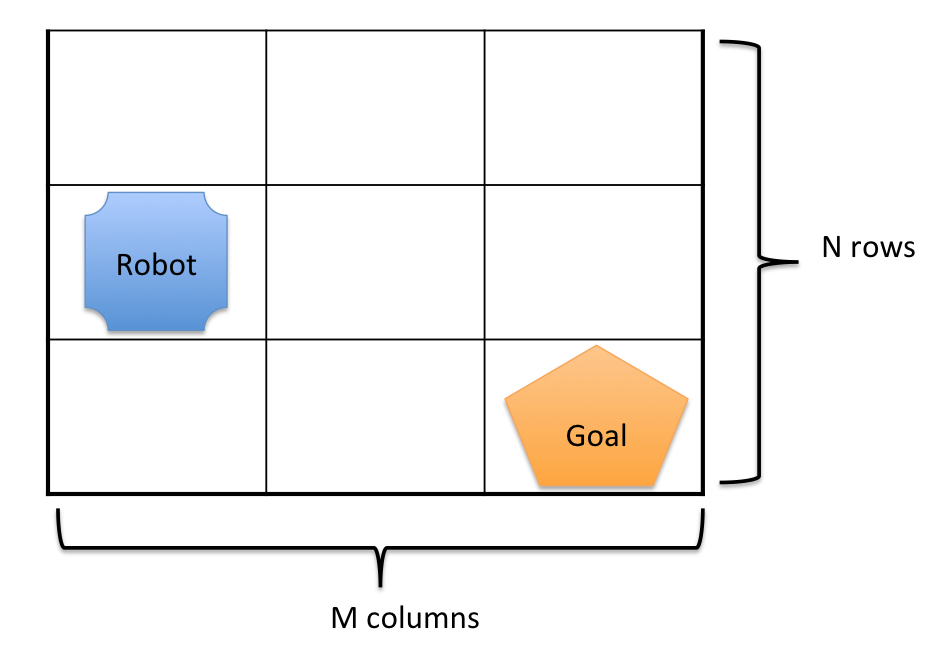
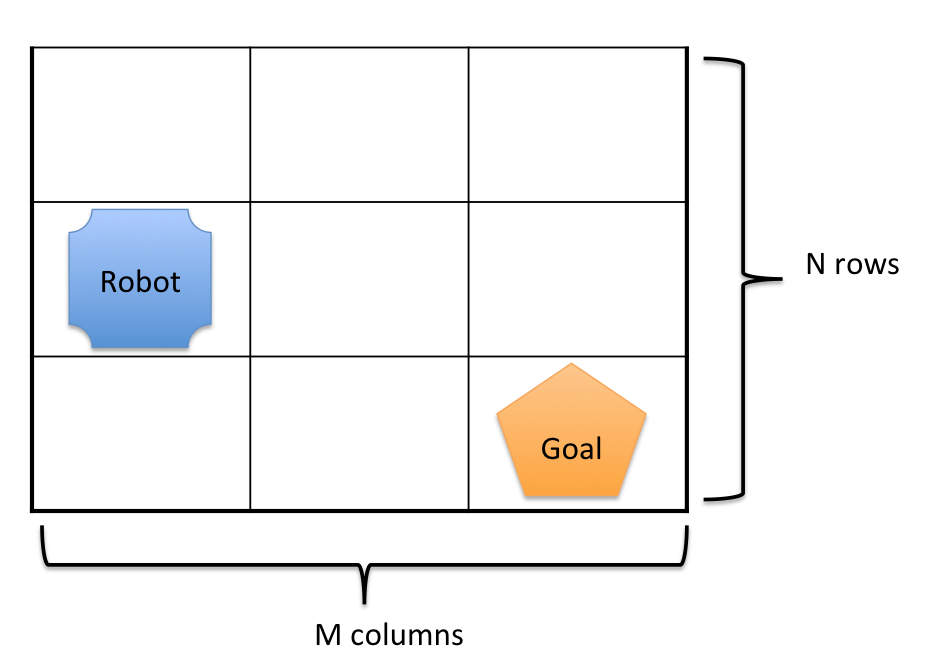
BIG RUN THROUGH FINISHED

Changed region(s): [[0.0303, 0.0306, 0.9989, 0.9786]]

diff --git a/AISearchChapter.tex b/AISearchChapter.tex
@@ -8,9 +8,9 @@ Based on our ability to rapidly simulate water particles and the deterministic n
 
 	\subsection{Terminology}
 
-In order to describe how A.I. search applies to the draining problem in manufacturing, some terminology must be defined first. In order to aid our definitions, we will use a simple positional search problem as an example, shown in figure \ref{robotGrid}. Imagine a robot placed on a grid with $M$ columns and $N$ rows that is attempting to reach a goal position $G_{pos}$
+In order to describe how A.I. search applies to the draining problem in manufacturing, some terminology must be defined first. In order to aid our definitions, we will use a simple positional search problem as an example, shown below.
 
-\myfigure{width=0.5\linewidth}{robotGrid}{A small positional search problem.}
+\myfigure{width=0.7\linewidth}{robotGrid}{A small positional search problem; a robot on a $M$ by $N$ grid is attempting to reach a goal position $G_{pos}$}
 
 The ``state'' is defined as a set of information that minimally represents the current progress to the goal. For this positional search problem, the minimal state representation would be the position tuple of the robot $(R_x,R_y)$, where $R_x$ is the horizontal position of the robot and $R_y$ is the vertical position of the robot. Here these variables can take on positive integer values up to $M$ and $N$ respectively.
 
@@ -18,11 +18,11 @@ For every state, the agent under control has a number of actions available to ta
 
 When the agent under control takes an action, a new state is produced. The ``transition function'' is responsible for transforming a state action pair into a successor state. For example, if the robot above was in position $(M = 1, N = 2)$ and took the action $North$, the transition function would return the state $(M = 1, N = 3)$.
 
-This transition function is also responsible for performing validity checks against the environment. In our positional search example, the transition function would be responsible for making sure the robot does not move off the grid or into a square occupied by another agent or wall. If an invalid state action pair is given to the transition function, the transition function returns $null$ to designate this invalid combination.
+This transition function is also responsible for performing validity checks against the environment. In our positional search example, the transition function would be responsible for making sure the robot does not move off the grid or into a square occupied by another agent or wall. If an invalid state action pair is given to the transition function, the transition function commonly returns $null$ to designate this invalid combination.
 
-The ``successor function'' is a meta function that uses the transition function and available actions to the agent. It is responsible for generating a list of successor states from a given state. For the above problem, the successor function would return the list of adjacent squares the robot could move into and the actions that produce those states.
+The ``successor function'' is a meta-function that uses the transition function and available actions to the agent. It is responsible for generating a list of successor states reachable (in one action) from a given state. For the above problem, the successor function would return the list of adjacent squares the robot could move into and the actions that produce those states.
 
-A ``plan'' is simply a sequence of actions. Plans are usually maintained and updated by the successor function when exploring states. This is because while reaching the goal state determines that the search algorithm has succeeded, the sequence of actions to achieve a goal state is usually the objective of the solution.
+A ``plan'' is simply a sequence of actions. While reaching the goal state determines that the search algorithm has succeeded, the sequence of actions to achieve a goal state is usually the objective of the solution. Consequently, plans are usually maintained and updated by the successor function when exploring states.
 
 	\subsection{General Tree Search}
 
@@ -62,7 +62,7 @@ State spaces often grow exponentially large with the addition of new variables. 
 
 \section{Adaption of A.I. Search}
 
-This work focuses on a traditional application of A.I. search to a novel state space formulation for workpiece draining. Our unique state formulation reduces the size of the state space to make it manageable for general A.I algorithms.
+Our work focuses on a traditional application of A.I. search to a novel state space formulation for workpiece draining. Our unique state formulation reduces the size of the state space to make it manageable for general A.I algorithms.
 
 	\subsection{Traditional Formulation}
 
@@ -70,7 +70,7 @@ Rotating a water particle out of a workpiece can be considered a kinematic plann
 
 The actions available to the agent at any time are usually actions that change the acceleration on the agent. The transition function integrates this kinematic state and acceleration change in time with a pre-defined accuracy. Consequently, many transition function calls must be made to accurately integrate the path of the agent through time.
 
-The problem with this type of state formulation is that the state space commonly becomes far too expansive for general A.I. search algorithms. For example, in a reduced problem where there are only 1000 possible position, velocity, and acceleration vectors for the state, the state space is $1000^3$. This presents far too many possible states for search algorithms to enumerate through and may prevent the algorithm from terminating.
+The problem with this type of state formulation is that the state space commonly becomes far too expansive for general A.I. search algorithms. Consider a reduced problem where there are only 1000 possible position, velocity, and acceleration vectors. The size of the state space here is $1000^3$. This presents a large number of possible states for a search algorithm to enumerate through; the scale of this state space may prevent the algorithm from terminating.
 
 Because of this, general A.I. search is rarely used in kinematics problems -- other techniques that avoid combinatorial state space ``explosion'' are more common \cite{kuffner2000rrt} \cite{yakey2001randomized} \cite{nakamura1991nonholonomic}.
 
@@ -78,7 +78,7 @@ Because of this, general A.I. search is rarely used in kinematics problems -- ot
 
 Our state formulation overcomes these difficulties by drastically reducing the size of the state space. We instead offload most of the computational overhead to the successor function.
 
-The key insight here is to observe only the concave vertices of the workpiece; this insight was first used by Yasui et al. \cite{Yasui2011} in order to reduce the scope of the rotation axis discovery problem. Here it is applied to the state space formulation for the first time in order to maintain the effectiveness of general A.I. search.
+The key insight here is to observe only the concave vertices of the workpiece; this insight was first used by Yasui et al. \cite{Yasui2011} in order to reduce the scope of analzying the drainability of all possible rotation axes. Here it is applied to the state space formulation for the first time in order to maintain the effectiveness of general A.I. search.
 
 We define our state as the ``settled'' position of the particle, meaning the state is either:
 
@@ -109,9 +109,9 @@ $$
 
 	\subsection{Action Definition}
 
-The ``actions'' available to our agent will be represented by the possible set of rotations of the workpiece. In this problem we choose our frame of reference to be the workpiece geometry, so the rotation of the workpiece is observed as a rotation of the gravity vector through time.
+The ``actions'' available to our agent will be represented by the possible set of rotations of the workpiece over time. In this problem we choose our frame of reference to be the workpiece geometry, so the rotation of the workpiece is observed as a rotation of the gravity vector through time. This means that our action results in a change in the acceleration field.
 
-Thus, one specific action, or ``turn,'' is defined by a sweep in the gravity vector from $g_{start}$ to $g_{end}$ over a time $t_{turn}$. The interpolation function between $g_{start}$ and $g_{end}$ could take on any form, but we restrict ourselves to linear interpolation for simplicity.
+More formally, we define one action (or ``turn'') as a sweep in the gravity vector from $g_{start}$ to $g_{end}$ over a time $t_{turn}$. The interpolation function between $g_{start}$ and $g_{end}$ could take on any form, but we restrict ourselves to linear interpolation for simplicity.
 
 	\subsection{Transition Function}
 
@@ -125,15 +125,15 @@ $$
 
 	\subsection{Possible set of Turns}
 
-A turn is defined by three different variables: $g_{start}$, $g_{end}$, and $t_{turn}$. These variables could take on many values, which means many different turns could be produced. Consequently, a large number of actions are available to the agent at any given state, which leads to computational explosion (yet again).
+A turn is defined by three different variables: $g_{start}$, $g_{end}$, and $t_{turn}$. These variables could take on many values which means many different turns could be produced. Consequently, a large number of actions are available to the agent at any given state, which leads to computational explosion (yet again).
 
 
-In this work, we restrict the possible set of ``turns'' from a given concave vertex to reasonable limits. The main way this is accomplished is by reducing the set of gravity vectors available and fixing the duration of the turn. By doing so, we reduce the space of all possible actions to something manageable which still represents the full range of kinetic possibilities.
+In this work, we restrict the possible set of ``turns'' from a given concave vertex to reasonable limits. The main way this is accomplished is by reducing the set of gravity vectors available and fixing the duration of the turn. By doing so we reduce the space of all possible actions to something ``manageable'' which still represents the full range of kinetic possibilities. An action or state space is ``manageable'' if it does not jeopardize termination of the algorithm.
 
 
 To understand how the set of gravity vectors is reduced, some terminology must first be defined. A given concave vertex has two leading edges $E_1$ and $E_2$ defined by outward vectors $\vec{e}_1$ and $\vec{e}_2$.
 
-\myfigure{width=0.5\linewidth}{edgeDefinition}{A concave vertex $V_{cc}^1$ and its two corresponding outward edge vectors $\vec{e}_1$) and $\vec{e}_2$}
+\myfigure{width=0.5\linewidth}{edgeDefinition}{A concave vertex $V_{cc}^1$ and its two corresponding outward edge vectors $\vec{e}_1$ and $\vec{e}_2$}
 
 We start with a full sphere of possibilities to sample $g_{start}$ and $g_{end}$ from, as shown below:
 
@@ -150,7 +150,7 @@ Our second restriction is that $g_{end}$ must be a vector that produces motion o
 
 \myfigure{width=0.8\linewidth}{restriction3}{$g_{end}$ is reduced to vectors that produce motion while keeping the particle on the leading edge}
 
-This leaves two arcs of gravity vectors from which $g_{end}$ can be sampled.
+This leaves two arcs of gravity vectors from which $g_{end}$ can be selected.
 
 	\subsection{Ideal Successor Function}
 
@@ -164,13 +164,13 @@ To overcome this difficulty, we will instead sample from the continuous range of
 
 Sampling from this space produces a list of defined turns (or actions). Our successor function will then examine these actions in conjunction with an input concave vertex and produce the set of reachable concave vertices.
 
-Ideally this set of concave vertices would be identical to the set achieved by the full enumeration of the sampling space. This is not likely to happen in practice, but with careful design we can discover the majority of this set.
+Ideally this set of concave vertices produced by sampling would be identical to the set achieved by the full enumeration of the sampling space. This is not likely to happen in practice, but with careful design we can discover the majority of this set.
 
 	\subsection{Representative Coverage Between Limits}
 
 The way we produce the majority of this set is to obtain a representative coverage over the possible kinetic paths out of a concave vertex. This is done by choosing a sampling method that produces the most diverse set of kinetic paths.
 
-If the possible range of $g_{end}$ vectors is defined between the limits of $0$ and $1$, then an initial best-guess sampling function may be to use uniform sampling in the form of $x$. Because acceleration effects compound with time, this uniform sampling method produces many kinetic paths that are almost identical as can be seen below.
+If the possible range of $g_{end}$ vectors is defined between the limits of $0$ and $1$, then an initial best-guess sampling function may be to use uniform sampling in the form of $x$. Because acceleration effects compound with time however, this uniform sampling method produces many kinetic paths that are almost identical as can be seen below.
 
 \myfigure{width=0.5\linewidth}{samplingUniform}{The range of kinetic paths produced from 10 samples from each side at uniform sampling. Many of the sampled kinetic paths are nearly identical and thus visually appear as one.}
 
@@ -188,9 +188,9 @@ Now we have all the pieces to implement A.I. search. Our state is defined as the
 
 To further increase computational efficiency, we implement two types of graph reduction in our search.
 
-The first is by using the standard graph implementation of our search algorithm. This graph version of the algorithm prevents a state from being expanded twice. Because the connectivity graph within workpieces often has a lot of cycles, preventing more than one expansion at each state helps considerably in cutting down computational cost.
+The first is by using the standard graph implementation of our search algorithm. This graph version of the algorithm prevents a state from being expanded twice. Because the connectivity graph within workpieces often has many cycles \cite{Yasui2011}, preventing more than one expansion at each state helps considerably in cutting down computational cost.
 
-Note how this algorithm is similar to tree search but makes use of a closed set.
+Note how the following algorithm is similar to tree search but makes use of a closed set.
 
 \begin{algorithm}[H]
 \begin{algorithmic}[1]
@@ -219,7 +219,7 @@ The second graph reduction is implemented directly in the successor function. Wh
 
 By doing so, our successor function produces the optimal reduced set of concave vertices reachable from a given state. This graph reduction enqueues fewer plans onto the fringe, reducing the memory overhead and improving performance.
 
-These two graph reductions excel in workpieces with finely-tesselated concave sections. Here, the connectivity graph is highly connected and contains many cycles. Without graph reductions, tree search would spend a lot of time expanding all the concave vertices over and over again.
+These two graph reductions excel in workpieces with finely-tesselated concave sections. Here the connectivity graph is highly connected and contains many cycles. Without graph reductions, tree search would spend a considerable amount of time expanding all the concave vertices multiple times.
 
 \myfigure{width=0.5\linewidth}{hemisphereSection}{A tesselated concave section. The draining graph for a workpiece like this is highly connected and cyclic.}
 
@@ -229,7 +229,7 @@ The uniform cost graph search algorithm we use ensures the plan produced is opti
 
 		\subsubsection{Time}
 
-The primary concern in manufacturing is often the processing time for a given procedure. In this case, the plans enqueued into the fringe are ordered by the total backward time to execute that plan. This ensures that when we dequeue a plan that ends in the goal, it has the lowest total time out of any plan on the fringe.
+The primary concern in manufacturing is often the processing time for a given procedure. In this case, the plans enqueued into the fringe are ordered by the total backward time to execute that plan. This ensures that when we dequeue a plan that ends in the goal, it has the lowest total time out of any plan on the fringe (ensuring optimality in time).
 
 		\subsubsection{Energy}
 
@@ -240,7 +240,7 @@ There are many ways to estimate the amount of energy required to execute a serie
 
 		\subsubsection{Energy - Rotation Angle}
 
-The first estimation of energy is based on the total rotation angle. If friction in the bearings and motor are the primary energy losses for the draining process, plans can be enqueued by their total absolute angle change.
+The first estimation of energy is based on the total rotation angle. If friction in the motor bearings are the primary energy losses for the draining process, plans can be enqueued by their total absolute angle change.
 
 This model would be appropriate if the workpiece was well balanced in a fixture that produced high energy loss due to friction.
 
@@ -256,7 +256,7 @@ Finally, if the workpiece is well balanced and friction in the rotator is low, t
 
 In this case, plans can be enqueued based on their total acceleration change.
 
-	\subsection{Solution}
+	\subsection{Solution Post Processing}
 
 A full solution is defined as the sequence of gravity transitions to drain the workpiece. The graph search algorithm returns a list of gravity turns from each concave vertex to drain the workpiece; the only issue is that the $g_{end}$ from one turn rarely matches the $g_{start}$ of the following turn.
 
@@ -282,6 +282,8 @@ Our implementation of this paper is available online at the following url when a
 
 \vspace{0.2in}
 
+\myfigure{width=0.8\linewidth}{demoFoundSolution}{A screen capture from our implementation, available online.}
+
 This implementation includes a graphical user interface that draws the sampling at each vertex and each path segment for a particle's full simulation. It also animates the solution search process and the final result; consequently, our implementation of this algorithm runs asynchronously and is called in-between graphical frame draws.
 
 	\subsection{Run Time}
@@ -290,11 +292,11 @@ Because our implementation is run asynchronously and performs a lot of (unnecess
 
 The following CPU profile was collected during a solution search on a workpiece with 180 total vertices, 55 concave vertices, and 21 polygons. The solution was obtained in 14.64 seconds on a Macbook Air with a 1.86 GHz Intel Core 2 Duo and 2 GB of 1067 MHz DDR3 ram. This time, however, was obtained while a CPU profiler was running (in addition to other applications) and is not representative of the typical runtime for the algorithm.
 
-In fact, search for the solution is rate-limited by the animation engine which runs at 60 frames per second. Consequently, all computers that are capable of completing the necessary operations between frame draws will find the solution in the same amount of time, which is another reason why absolute computation time is not representative of performance for our work.
+In fact, search for the solution is rate-limited by the animation engine which runs at 60 frames per second. Consequently, all computers that are capable of completing the necessary operations between frame draws will find the solution in the same amount of time, another reason why absolute computation time is not representative of performance for our work.
 
 The following breakdown on CPU time is provided to get a sense of the computation workload for each high-level function. CPU Self time is defined as the time spent inside the function; CPU total time is defined as the time spent inside that function and the functions called from that location.
 
-\begin{table}
+\begin{table}[H]
 \label{resultsTable}
 \begin{tabular}{|c|c|c|}
 \hline
@@ -328,7 +330,7 @@ The main time-intensive aspects of this algorithm are:
 
 The intersection between a particle path and the workpiece is linear in the number of edges $O(E)$ in the workpiece because each edge is intersected against a given path.
 
-A particle's full simulation duration is dependent on the elasticity $\kappa$ which controls the rate of energy dissipation. In the best case, a particle's simulation only has one path; in the worst case, the particle never stops moving if the elasticity of the system is 1. In practice we found that most particle simulations had a number of path segments that was proportional (linearly) to the number of edges in the polgyon. Thus the simulation step is $O(E)$, with $O(E)$ intersection tests, bringing us to $O(E^2).$
+A particle's full simulation duration is dependent on the elasticity $\kappa$ which controls the rate of energy dissipation. In the best case, a particle's simulation only has one path; in the worst case, the particle never stops moving if the elasticity of the system is 1. In practice we found that most particle simulations had a number of path segments that was proportional (linearly) to the number of edges in the polgyon. Thus the simulation step is $O(E)$ with $O(E)$ intersection tests, bringing us to a total (so far) of $O(E^2).$
 
 A full simulation is performed for every sampled turn at a given concave vertex. We restrict the number of samples to 20 in our implementation, so this step introduces a scalar constant $S$ defined as the number of samples taken at each concave vertex.
 
@@ -348,7 +350,7 @@ Further optimizations and improvements could be made to this work, namely to enh
 
 One standard improvement to uniform cost search is the addition of a consistent, admissible heuristic to convert the search into A* search. A heuristic is simply an estimation of the remaining cost from a state to the goal state. Admissibility of a heuristic requires that the heuristic never over-estimates the remaining cost, and consistency requires that the heuristic does not rapidly change values between states.
 
-Heuristics are, by nature, very dependent on the problem they are being applied to. Many heuristics exist for positional search problems and other common search formulations; since our search formulation is rather unique, there is not as much prior work to draw from.
+Heuristics are, by nature, very dependent on the problem they are being applied to. Many heuristics exist for positional search problems and other common search formulations; since our search formulation is rather unique, there is not as much prior work to draw from \cite{christofides1976worst}.
 
 One initial idea for a heuristic would be to use the free-fall time from the current concave vertex to the outside of the workpiece bounding box. This essentially would be the optimistic estimation that the particle would free-fall immediately from the concave vertex at the next turn. While this heuristic would be admissible and consistent, it is also radially symmetric and does not take into account workpiece geometry. It is probable that better heuristics exist for this search formulation.
 
@@ -364,7 +366,7 @@ The rest of the approach, from solution search to particle simulation, would rem
 
 	\subsection{Adaption to 3D - Free Axis}
 
-Adapting this work to 3D polygonal meshes where the workpiece can rotate about \emph{any} rotation axis at any time presents a substantially more difficult problem. The chief obstacle here is that there is an explosion of possible turns available from any given concave vertex. The final gravity vector of the turn, $g_{end}$, could be sampled from an entire sphere rather than two small arcs from a given circle.
+Adapting this work to 3D polygonal meshes where the workpiece can rotate about \emph{any} rotation axis at any time presents a substantially more difficult problem. The chief obstacle here is that there is an explosion of possible turns available from any given concave vertex. The final gravity vector of the turn, $g_{end}$, could be sampled from an entire sphere rather than two small arcs in a planar circle.
 
 There may be ways to intelligently reduce the sample space and still maintain a representative coverage of the kinetic paths attainable from a concave vertex, but much work is needed before those methods can be validated.
 
@@ -378,7 +380,7 @@ The adaption of this work for multiple particles is fairly trivial to do in the 
 	\label{eq:multipleParticleStateSpace}
 }
 
-Now at each state, there are several sets of ``turns'' to sample from, one set for each concave vertex that contains a particle. When a turn is simulated, all other particles must be simulated as well. If any of these particles experiences scenario \#4, the entire sample has to be rejected.
+Now at each state there are several sets of ``turns'' to sample from, one set for each concave vertex that contains a particle. When a turn is simulated, all other particles must be simulated as well. If any of these particles experiences scenario \#4, the entire sample has to be rejected.
 
 The main disadvantage this naive implementation has is that now the runtime is exponential in the number of concave vertices $n$, as seen in \eqref{eq:bigo}.
 

diff --git a/conclusion.tex b/conclusion.tex
@@ -2,8 +2,8 @@
 
 We have provided a new approach to the workpiece draining problem from manufacturing that produces results that are complementary to existing work.
 
-We first described our model of the problem -- one that introduces a more accurate kinetic model of the water particles and allows for bi-directional draining with finite rotation speeds. We then introduced a parametric simulation approach that maintained constant-time intersection tests between particle paths and geometric primitives.
+We first described our model of the problem -- one that introduces a more accurate kinetic model of the water particles and allows for bi-directional draining with finite rotation speeds. We then introduced a parametric simulation approach that maintains constant-time intersection tests between particle paths and geometric primitives.
 
-Finally, we then combined this simulation method with a unique search formulation of the problem to obtain a solution. By reducing the size of the state space and offloading complexity to the transition function, we can then ``sample'' from the action space until we are satisfied with the coverage of kinetic paths.
+Finally we then combined this simulation method with a unique search formulation of the draining problem to obtain a solution. By reducing the size of the state space and offloading complexity to the transition function, we can then ``sample'' from the action space until we are satisfied with the coverage of kinetic paths.
 
 This search formulation is then solved by standard uniform cost graph search; a solution post-processor then produces a control sequence that can be fed into machinery capable of rotating a workpiece. We believe this work makes significant progress towards a fully-realized solution for manufacturers and designers alike.
